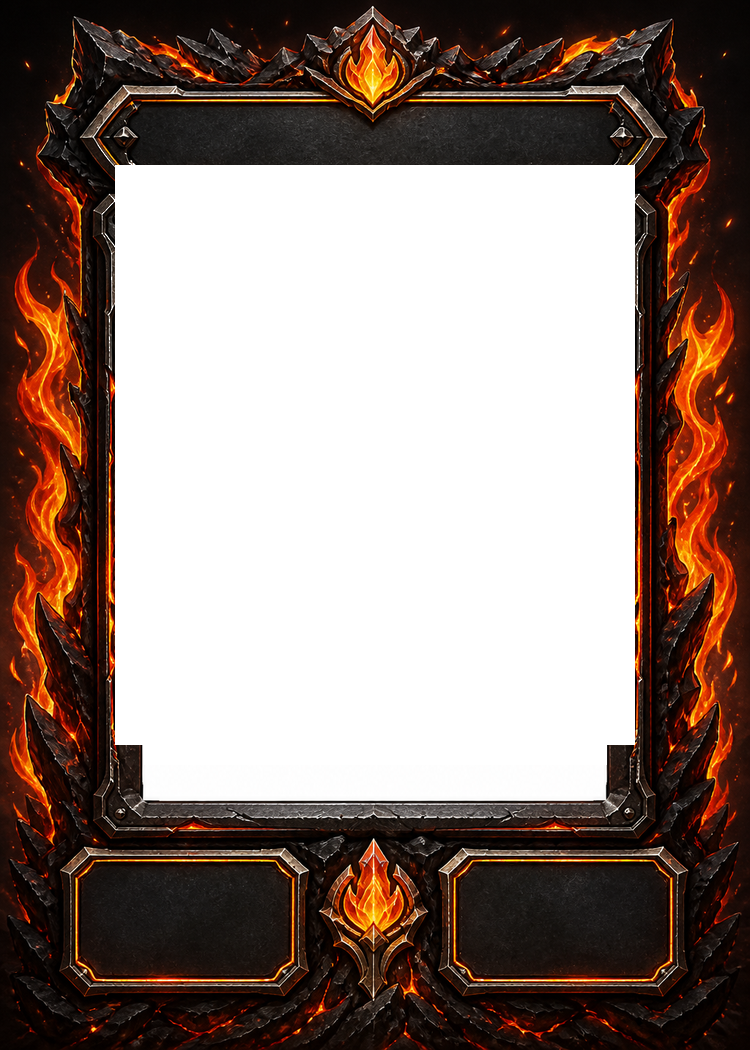
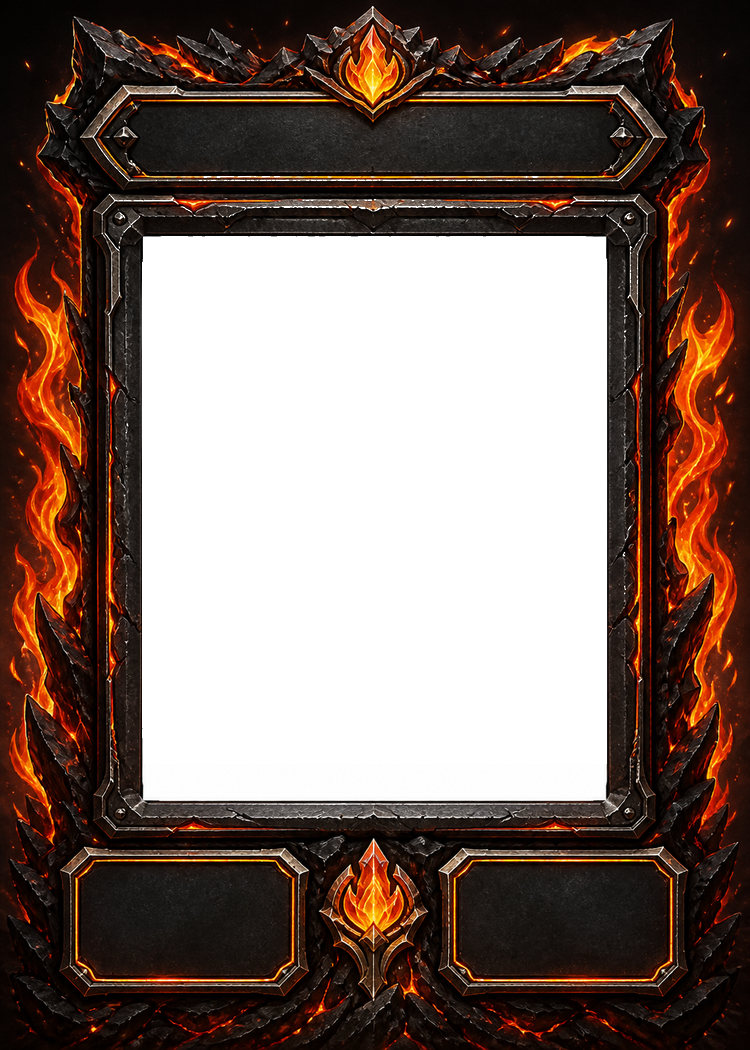
Keep frame details above gray art boxing
Switch art-hole punching to flood-fill of empty fill only so bezels and
ornaments stay opaque, and composite gray slot boxing under the frame in
previews so decorative edges are never covered.

Changed region(s): [[0.1533, 0.1524, 0.8587, 0.7314]]

diff --git a/frames/build_hq_frame.py b/frames/build_hq_frame.py
@@ -3,6 +3,9 @@
 
 Crude programmatic SVG chrome is not the production look. Final frames are
 high-quality illustrated assets whose content slots match layout.json.
+
+Layering rule: gray content boxing sits UNDER the frame so ornate bezel /
+ornament details are never covered or punched away.
 """
 
 from __future__ import annotations
@@ -13,6 +16,7 @@ import re
 from pathlib import Path
 from typing import Any
 
+import numpy as np
 from PIL import Image
 
 
@@ -53,6 +57,8 @@ LOCKED LAYOUT — match these slots exactly; do not move or resize them:
 4) BOTTOM RIGHT BANNER: empty plaque at x={br['x']} y={br['y']} size {br['width']}x{br['height']}.
 5) Small crest/ornament allowed between the two bottom banners only.
 
+CRITICAL LAYERING: The decorative frame, bezels, rivets, crests, and ornaments must OVERLAY the content slots. Gray/empty boxing is behind the frame; never cover or crop away inner frame details.
+
 THEME: {params.get('theme', 'fantasy')} / mood: {params.get('mood', 'polished')} / element: {params.get('element', '')}
 PALETTE: {colors or 'cohesive premium palette'}
 MATERIALS: {mat or 'rich detailed materials with soft shading'}
@@ -69,57 +75,124 @@ Full-bleed decorative frame on transparent or plain backdrop; center remains an 
 """.strip()
 
 
-def punch_art_hole(image: Image.Image, layout: dict[str, Any], *, inset: int = 0) -> Image.Image:
-    """Make the art-window interior transparent while preserving a framed bezel.
-
-    Prefer clearing empty fill (white / magenta / near-black flat fill) inside the
-    locked art rect. A hard rect punch is used as fallback for remaining opaque
-    interior pixels, optionally inset so an illustrated rim can survive.
-    """
-    art = layout["preserved_regions"]["art_window"]
+def _to_canvas(image: Image.Image, layout: dict[str, Any]) -> np.ndarray:
     canvas = layout["canvas"]
     img = image.convert("RGBA").resize((canvas["width"], canvas["height"]), Image.Resampling.LANCZOS)
-    pixels = img.load()
-    x0, y0 = art["x"] + inset, art["y"] + inset
-    x1, y1 = art["x"] + art["width"] - inset, art["y"] + art["height"] - inset
+    return np.array(img)
 
-    def is_empty_fill(r: int, g: int, b: int, a: int) -> bool:
-        if a < 16:
-            return True
-        # pure / near white
-        if r > 245 and g > 245 and b > 245:
-            return True
-        # layout magenta guide
-        if r > 230 and g < 40 and b > 230:
-            return True
-        # flat near-black placeholder (not textured rock)
-        if r < 28 and g < 28 and b < 28:
-            return True
-        return False
 
-    for y in range(y0, y1):
-        for x in range(x0, x1):
-            r, g, b, a = pixels[x, y]
-            if is_empty_fill(r, g, b, a):
-                pixels[x, y] = (0, 0, 0, 0)
-            else:
-                # hard-clear remaining interior so art can composite cleanly;
-                # bezel lives outside inset / outside empty-fill regions
-                pixels[x, y] = (0, 0, 0, 0)
-    return img
+def punch_art_hole(
+    image: Image.Image,
+    layout: dict[str, Any],
+    *,
+    inset: int = 0,
+    preserve_frame_detail: bool = True,
+) -> Image.Image:
+    """Clear empty art fill via flood-fill so frame bezels stay opaque on top.
+
+    Only near-white / magenta / already-clear pixels are removable. Dark metal,
+    stone, glow, and ornament pixels are preserved so gray boxing can sit under
+    the frame without eating details.
+    """
+    from collections import deque
+
+    art = layout["preserved_regions"]["art_window"]
+    arr = _to_canvas(image, layout)
+    h, w = arr.shape[:2]
+    pad = max(inset, 1)
+    x0, y0 = art["x"] + pad, art["y"] + pad
+    x1, y1 = art["x"] + art["width"] - pad, art["y"] + art["height"] - pad
+
+    r = arr[:, :, 0].astype(np.int16)
+    g = arr[:, :, 1].astype(np.int16)
+    b = arr[:, :, 2].astype(np.int16)
+    a = arr[:, :, 3]
+    lum = (r + g + b) / 3.0
+    sat = np.maximum(np.maximum(r, g), b) - np.minimum(np.minimum(r, g), b)
+
+    # Never treat dark metal / textured chrome as empty.
+    passable = ((lum > 185) & (sat < 50)) | ((r > 220) & (g < 60) & (b > 220)) | (a < 16)
+    if not preserve_frame_detail:
+        # Unsafe mode used only for debugging: allow clearing flat near-black too.
+        passable = passable | ((lum < 26) & (sat < 12) & (a > 0))
+
+    allowed = np.zeros((h, w), dtype=bool)
+    allowed[y0:y1, x0:x1] = True
+    seed_mask = passable & allowed
+
+    visited = np.zeros((h, w), dtype=bool)
+    q: deque[tuple[int, int]] = deque()
+    for yy in range(y0 + 10, y1 - 10, 40):
+        for xx in range(x0 + 10, x1 - 10, 40):
+            if seed_mask[yy, xx]:
+                visited[yy, xx] = True
+                q.append((xx, yy))
+    for yy in range(max(y0, y1 - 90), y1 - 1, 8):
+        for xx in range(x0 + 8, x1 - 8, 16):
+            if seed_mask[yy, xx] and not visited[yy, xx]:
+                visited[yy, xx] = True
+                q.append((xx, yy))
+
+    while q:
+        x, y = q.popleft()
+        for nx, ny in ((x - 1, y), (x + 1, y), (x, y - 1), (x, y + 1)):
+            if 0 <= nx < w and 0 <= ny < h and not visited[ny, nx] and seed_mask[ny, nx]:
+                visited[ny, nx] = True
+                q.append((nx, ny))
+
+    arr[visited] = (0, 0, 0, 0)
+
+    # Sweep leftover disconnected near-white islands inside the art rect only.
+    pale = ((lum > 200) & (sat < 40) & (a > 0))
+    pale_art = np.zeros((h, w), dtype=bool)
+    pale_art[y0:y1, x0:x1] = pale[y0:y1, x0:x1]
+    arr[pale_art] = (0, 0, 0, 0)
+    return Image.fromarray(arr, "RGBA")
+
+
+def make_slot_underlay(layout: dict[str, Any], *, cell: int = 16) -> Image.Image:
+    """Gray boxing for locked slots — drawn UNDER the frame."""
+    c = layout["canvas"]
+    w, h = c["width"], c["height"]
+    under = np.zeros((h, w, 4), dtype=np.uint8)
+
+    # Subtle full-card backdrop so transparent areas outside slots read cleanly.
+    under[:, :] = (24, 24, 28, 255)
+
+    art = layout["preserved_regions"]["art_window"]
+    yy, xx = np.indices((art["height"], art["width"]))
+    checker = ((xx // cell) + (yy // cell)) % 2 == 0
+    art_block = np.zeros((art["height"], art["width"], 4), dtype=np.uint8)
+    art_block[checker] = (186, 186, 186, 255)
+    art_block[~checker] = (128, 128, 128, 255)
+    under[
+        art["y"] : art["y"] + art["height"],
+        art["x"] : art["x"] + art["width"],
+    ] = art_block
+
+    # Solid gray boxing for text plaques (behind plaque faces / under ornate rims).
+    for key, color in (
+        ("title_box", (72, 72, 78, 255)),
+        ("bottom_left_box", (72, 72, 78, 255)),
+        ("bottom_right_box", (72, 72, 78, 255)),
+    ):
+        box = layout["preserved_regions"][key]
+        under[
+            box["y"] : box["y"] + box["height"],
+            box["x"] : box["x"] + box["width"],
+        ] = color
+
+    return Image.fromarray(under, "RGBA")
 
 
 def make_preview_with_checker(image: Image.Image, layout: dict[str, Any], cell: int = 16) -> Image.Image:
-    """Composite transparent frame over a checkerboard for previewing."""
-    w, h = image.size
-    preview = Image.new("RGBA", (w, h), (0, 0, 0, 0))
-    for y in range(0, h, cell):
-        for x in range(0, w, cell):
-            c = (210, 210, 210, 255) if ((x // cell) + (y // cell)) % 2 == 0 else (160, 160, 160, 255)
-            for yy in range(y, min(y + cell, h)):
-                for xx in range(x, min(x + cell, w)):
-                    preview.putpixel((xx, yy), c)
-    return Image.alpha_composite(preview, image.convert("RGBA"))
+    """Gray boxing underlay, then frame on top so details are not missed."""
+    under = make_slot_underlay(layout, cell=cell)
+    frame = image.convert("RGBA")
+    if frame.size != under.size:
+        canvas = layout["canvas"]
+        frame = frame.resize((canvas["width"], canvas["height"]), Image.Resampling.LANCZOS)
+    return Image.alpha_composite(under, frame)
 
 
 def main() -> None:
@@ -129,7 +202,18 @@ def main() -> None:
     parser.add_argument("--print-prompt", action="store_true")
     parser.add_argument("--punch", type=Path, help="Input PNG/WebP to punch art hole into")
     parser.add_argument("--out", type=Path, help="Output path for punched PNG")
-    parser.add_argument("--inset", type=int, default=0, help="Keep N px of art-window rim when punching")
+    parser.add_argument(
+        "--inset",
+        type=int,
+        default=0,
+        help="Optional margin inside art rect when searching for empty fill",
+    )
+    parser.add_argument(
+        "--hard-clear-interior",
+        action="store_true",
+        help="Unsafe: also wipe non-empty pixels inside art rect (can destroy bezel details)",
+    )
+    parser.add_argument("--preview", action="store_true", help="Also write checkerboard preview")
     args = parser.parse_args()
 
     layout = load_json(args.layout)
@@ -143,7 +227,12 @@ def main() -> None:
         frame_id = slugify(params.get("id") or "frame")
         out = args.out or (ROOT / "samples" / f"{frame_id}.png")
         out.parent.mkdir(parents=True, exist_ok=True)
-        punched = punch_art_hole(Image.open(args.punch), layout, inset=args.inset)
+        punched = punch_art_hole(
+            Image.open(args.punch),
+            layout,
+            inset=args.inset,
+            preserve_frame_detail=not args.hard_clear_interior,
+        )
         punched.save(out)
         print(f"Wrote {out}")
         if args.preview:

diff --git a/frames/README.md b/frames/README.md
@@ -47,12 +47,14 @@ python3 frames/build_hq_frame.py --params frames/params/sakura-shrine-v1.json --
 # 2) Generate a high-quality illustration from that prompt (agent / image model)
 #    Use frames/overlays/layout-reference.png as a layout reference.
 
-# 3) Punch the art window to exact layout coords and write sample PNG
+# 3) Punch empty art fill only (keeps bezel/ornaments) and preview with gray boxing UNDER the frame
 python3 frames/build_hq_frame.py \
   --params frames/params/sakura-shrine-v1.json \
   --punch path/to/raw.png \
   --preview
 ```
+
+Layering: gray slot boxing / checker is an underlay; the illustrated frame composites on top so rivets, bezels, and ornaments are not covered.
 
 ### Layout wireframe only (not final art)
 
